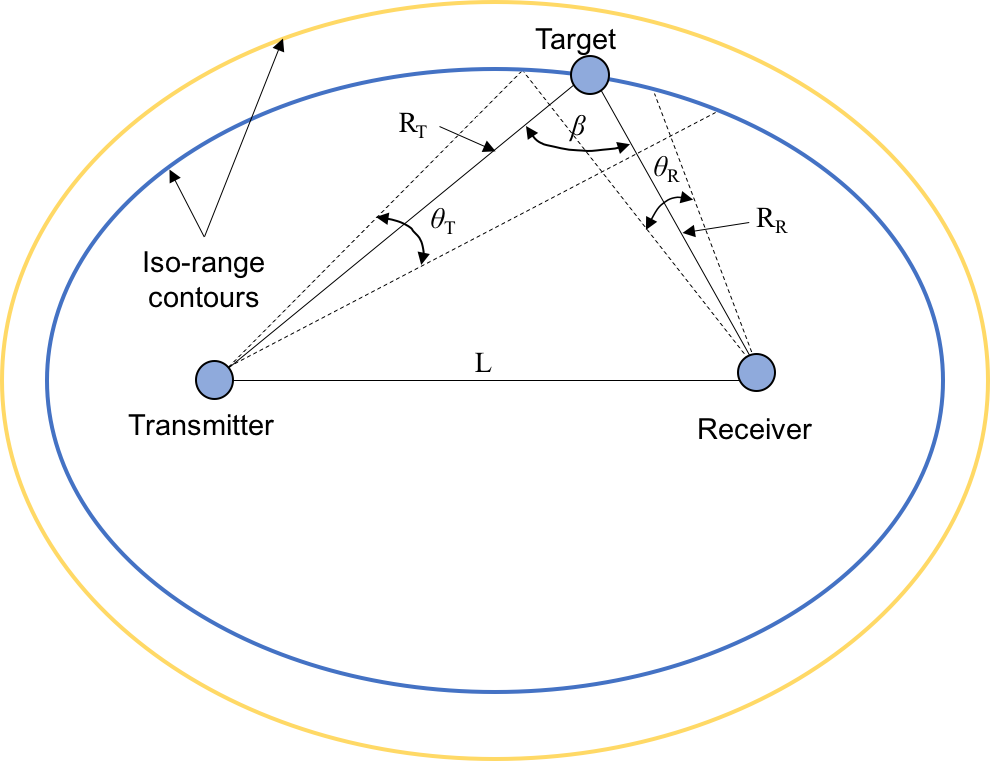
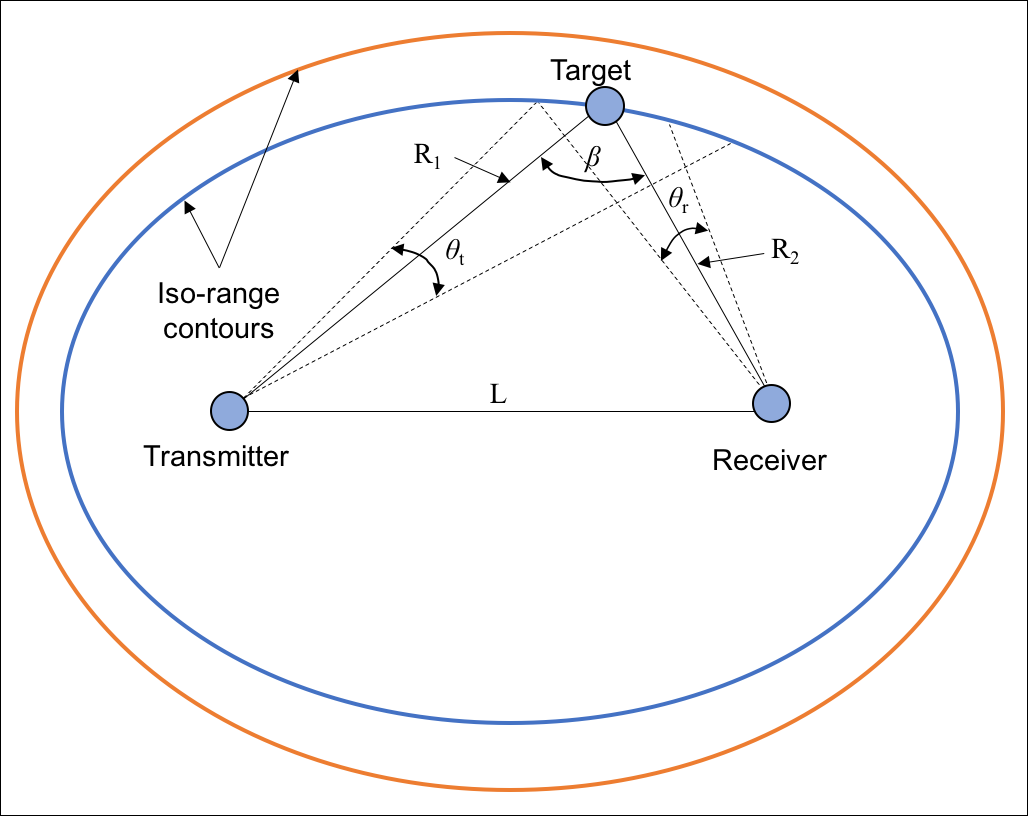
Adding images for earth models along with typo corrections

Changed region(s): [[0.0, 0.0, 1.0, 1.0], [0.697, 0.544, 0.8182, 0.5742], [0.5152, 0.272, 0.5455, 0.3022]]

diff --git a/src/radar_basics.tex b/src/radar_basics.tex
@@ -18,14 +18,14 @@ The RADAR range equation is derived by assuming spherically propagating waves an
 \end{figure}
 \renewcommand{\baselinestretch}{2} \small\normalsize
 
-With spherical waves, the power is spread out over a sphere of radius equal to the slant range, $R$, which gives a scaling factor of $\left( 4\pi R^2 \right)^{-1}$ for propagation. The total projected power is the transmitted power, $P_t$, multiplied by the antenna gain, $G_t$. The RADAR cross section (RCS), $\sigma$, defines the amount of power reflected. The effective area of the antenna is then $\frac{G_t\lambda^2}{4\pi}$.
+With spherical waves, the power is spread out over a sphere of radius equal to the slant range, $R$, which gives a scaling factor of $\left( 4\pi R^2 \right)^{-1}$ for propagation. The total projected power ($P_1$) is the transmitted power, $P_t$, multiplied by the antenna gain, $G_t$. The RADAR cross section (RCS), $\sigma$, defines the amount of power reflected, and the effective area of the antenna is $\frac{G_t\lambda^2}{4\pi}$.
 
-In the monostatic case, $G_t = G_r$ and the RADAR range equation is given in Equation \ref{intro_eq:1} \cite{skolnik_radar}.
+In the monostatic case, $G_t = G_r$ and the RADAR range equation is given in Equation \ref{intro_eq:1} \cite{skolnik_handbook}.
   \begin{equation}
   \label{intro_eq:1}
  P_r = \frac{P_tG_t^2\sigma\lambda^2}{\left(4\pi\right)^3R^4}
   \end{equation}
-In this equation, the antenna gain, $G_t$ is a function of the angle between the antenna boresight and the target. Randomness enters this version of the RADAR range equation through the target RCS, $\sigma$.
+In this equation, the antenna gain, $G_t$ is a function of the angle between the antenna boresight and the target. Randomness enters this version of the RADAR range equation through the target RCS.
 
 In the atmosphere, propagation is a linear operation. Therefore we can leverage superposition to compute the RADAR range equation for each path or scatterer and sum the results.
 
@@ -51,17 +51,16 @@ The bistatic RADAR range equation in terms of SNR is shown in Equation \ref{intr
 \end{equation}
 
 \subsection{Propagation Factors}
-The use of a propagation factor, $F_p$, allows us to include atmospheric effects in the RADAR range equation. These effects can include absorption from atmospheric gases and weather such as rain or snow as well as rollups for the effects of multipath reflections, diffraction from the surface, and clipping by the horizon. The propagation factor is typically implemented as a multiplier to the RADAR range equation and is generally complicated to compute. 
+The use of a propagation factor, $F_p$, allows us to include atmospheric effects in the RADAR range equation. These effects can include absorption from atmospheric gases and weather such as rain or snow as well as rollups for the effects of multipath reflections, diffraction from the surface, and clipping by the horizon. The propagation factor is typically implemented as a multiplier to the RADAR range equation and provides another mechanism to introduce randomness. Because it encompasses a wide variety of environment conditions, it is generally complicated to compute. 
 
-The bistatic RADAR range equation with a propagation factor included in given in Equation \ref{intro_eq:4a}.
+The bistatic RADAR range equation with a propagation factor included is given in Equation \ref{intro_eq:4a}.
   \begin{equation}
   \label{intro_eq:4a}
  P_r = \frac{P_tG_tG_r\sigma_B\lambda^2}{\left(4\pi\right)^3R_1^2R_2^2}F_p
   \end{equation}
-The propagation factor provides another mechanism to introduce randomness.
 
 \section{Bistatic Configurations}
-Because the transmitter and receiver are not colocated in a bistatic configuration, the geometry now becomes an ellipsoid as shown in Figure \ref{intro_fig:2}. Here, $R_1$ is the slant range from the transmitter to the target, $R_2$ is the slant range from the target to the receiver, $\theta_1$ is the one way beam width of the transmitter and $\theta_r$ is the one way beam width of the receiver. The bistatic angle, $\beta$ is the angle between the transmitter and receiver in the plane containing the transmitter, receiver, and target. 
+Because the transmitter and receiver are not colocated in a bistatic configuration, the geometry now becomes ellipsoidal as shown in Figure \ref{intro_fig:2}. Here, $R_1$ is the slant range from the transmitter to the target, $R_2$ is the slant range from the target to the receiver, $\theta_t$ is the one way beam width of the transmitter and $\theta_r$ is the one way beam width of the receiver. The bistatic angle, $\beta$, is the angle between the transmitter and receiver in the plane containing the transmitter, receiver, and target. 
 \begin{figure}[H]
   \begin{center}
 \includegraphics[width=4in]{../media/multistatic/Isorange_contours.png}
@@ -72,7 +71,7 @@ Because the transmitter and receiver are not colocated in a bistatic configurati
   \end{quote}
 \end{figure}
 \renewcommand{\baselinestretch}{2} \small\normalsize
-The isorange contours are defined as the contours where the total path length , $R_1 + R_2$ is constant. These form ellipses with the transmitter and receiver at the foci. For the monostatic case, the isorange contours are simply circles. In the bistatic case, the beam width is not symmetric about the isorange contours with results in skewing the impact of clutter.
+The isorange contours are defined as the contours where the total path length, $R_1 + R_2$ is constant . These form ellipses with the transmitter and receiver at the foci as shown in the blue and orange curves in Figure \ref{intro_fig:2}. For the monostatic case, the isorange contours are simply circles and the geometry is simplified as everything is symmetric. In the bistatic case, however, the beam width is not symmetric along the isorange contours, which results in skewing the impact of clutter.
 
 It is often convenient to look at things in terms of SNR. In a bistatic configuration, the loci of constant SNR are known as the ovals of Cassini \cite{willis_bistatic} and an example is shown in Figure \ref{intro_fig:3}.
 \begin{figure}[H]
@@ -85,25 +84,57 @@ It is often convenient to look at things in terms of SNR. In a bistatic configur
   \end{quote}
 \end{figure}
 \renewcommand{\baselinestretch}{2} \small\normalsize
+The ovals of Cassini are a simplification that assumes the target RCS and propagation factors are invariant with respect to angle and range. This is rarely the case, but the ovals of Cassini are useful to quickly represent system constraints.
+
+For large SNR, the ovals of Cassini collapse around the transmitter and receiver and define the transmitter centered and receiver centered regions. The cosite region is defined as when the ovals of Cassini surround both the transmitter and receiver \cite {willis_bistatic}.
+
 \section{Beam Width}
-The beam width of an antenna is defined as the angle between the half power points in the antenna pattern.
+The beam width of an antenna is defined as the angle between the half power points in the antenna pattern. We will use a sinc antenna pattern to demonstrate this concept.
 
 \subsection{One Way}
-The one way antenna beam width, $\theta$, is simply the beam width of the forward propagating beam.
+The one way antenna beam width, $\theta$, is simply the beam width of the forward propagating beam. The electric field amplitude in the far field of a sinc antenna pattern is given by Equation \ref{rb_eq:1} and shown in Figure \ref{rb_fig:4}.
+
+\begin{equation}
+\label{rb_eq:1}
+E(\theta) = \frac{\sin\left(\frac{\pi D}{\lambda}\sin(\theta) \right)}{\frac{\pi D}{\lambda}\sin(\theta)}
+\end{equation}
+
+\begin{figure}[H]
+  \begin{center}
+\includegraphics[width=4in]{../media/multistatic/sinc_antenna_pattern_one_way.png}
+  \end{center}
+  \renewcommand{\baselinestretch}{1} \small\normalsize
+  \begin{quote}
+    \caption[One Way Antenna Pattern]{One Way Antenna Pattern\label{rb_fig:4}}
+  \end{quote}
+\end{figure}
+\renewcommand{\baselinestretch}{2} \small\normalsize
 
 \subsection{Two Way}
-The two way antenna beam width, $\theta_2$, is the beam width of the beam propagating in both directions. For the monostatic case, we can compute this as the one way beam width of the square of the antenna pattern. In most cases, $\theta_2 \approx \frac{1}{\sqrt{2}}\theta$.
+The two way antenna beam width, $\theta_2$, is the beam width of the beam propagating in both directions. For the monostatic case, we can compute this as the one way beam width of the square of the antenna pattern. For the sinc pattern, the two way pattern is shown in Figure \ref{rb_fig:5}. In most cases, $\theta_2 \approx \frac{1}{\sqrt{2}}\theta$.
+
+\begin{figure}[H]
+  \begin{center}
+\includegraphics[width=4in]{../media/multistatic/sinc_antenna_pattern_two_way.png}
+  \end{center}
+  \renewcommand{\baselinestretch}{1} \small\normalsize
+  \begin{quote}
+    \caption[Two Way Antenna Pattern]{Two Way Antenna Pattern\label{rb_fig:5}}
+  \end{quote}
+\end{figure}
+\renewcommand{\baselinestretch}{2} \small\normalsize
+The two way beam width is really only valid for monostatic configurations that assume the forward and backward propagating beams lie directly on top of one another. In a bistatic configuration, the beams overlap differently and need to be explicitly evaluated.
 
 \section{Detection}
 The detection process can be cast as a hypothesis test where the two mutually exclusive hypotheses are that the target is either present or not present \cite{richards_radar}. There are three probabilities that need to be considered. First, the probability of detection, $P_d$, is the probability that a target is both detected and present. Second, the probability of false alarm, $P_{fa}$ is the probability that a target is detected but not actually present. Finally, the probability of miss, $P_m$ is the probability that a target is present but not detected. In most cases, a missed detection is worse than a false alarm.
 
 \subsection{Threshold Testing}
-The detection processes is generally a threshold test applied to the output of a matched filter generated for optimal detection with the threshold, $\hat{T}$ tuned to achieve a specified $P_{fa}$. The received signal consists of thermal noise, potential target returns, and potential interference signals such as clutter or jamming.
+The detection processes is generally a threshold test applied to the output of a matched filter with the threshold, $\hat{T}$ tuned to achieve a specified $P_{fa}$. Matched filters match the filter impulse response to the waveform to maximize the SNR and optimize detection \cite{richards_dsp}. 
 
-Expressions for $P_d$ are complicated but well studied for the cases of standard Gaussian noise and fluctuating targets following Swerling models. In general, $P_d$ is dependent on SNR, so processing is typically geared towards maximizing the SNR. As a general rule of thumb, an SNR of $13$ dB provides a $P_d$ of $\approx 0.94$ and a $P_{fa}$ of $\approx 10^{-6}$.
+The received signal consists of thermal noise, potential target returns, and potential interference signals such as clutter or jamming. Expressions for $P_d$ are complicated but well studied for the cases of standard Gaussian noise and fluctuating targets following Swerling models. As a general rule of thumb, an SNR of $13$ dB provides a $P_d$ of $\approx 0.94$ and a $P_{fa}$ of $\approx 10^{-6}$.
 
 \subsection{Processing Gains}
-To improve the overall SNR and increase the $P_d$, we can take advantage of processing gains by applying the detection strategy to groups of pulses. This is known as pulse integration and we can apply it coherently or noncoherently and can also look at M out of N strategies (binary integration).
+To improve the overall SNR and increase the $P_d$, we can take advantage of processing gains by applying the detection strategy to groups of pulses. This is known as pulse integration and we can apply it coherently or noncoherently. We can also look at binary integration strategies where a detection is asserted for $M$ observations out of $N$ chances.
 
 \subsubsection{Coherent and Noncoherent Integration}
 For coherent integration, we operate in the complex domain and add the magnitude and phase of each pulse. The number of pulses, $N$, that are combined is defined as the Coherent Processing Interval (CPI) and the overall processing gain goes as $N^2$.
@@ -113,3 +144,15 @@ For noncoherent integration, we only sum the magnitudes of each pulse. We now re
 Coherently integration $2$ pulses provides a $6$ dB processing gain while noncoherently integrating $2$ pulses only provides a $3$ dB processing gain.
 
 \subsubsection{Binary Integration}
+Binary integration relies on cumulative probability to improve $P_d$ and reduce $P_{fa}$. For the specific strategies of requiring $M$ positive hits out of $N$ observations to claim a detection, the improvement in probability is given in Equation \ref{rb_eq:2} where $P$ is the resulting $M$ of $N$ probability and $p$ is the single opportunity probability (either $P_d$ or $P_{fa}$ ). 
+
+\begin{equation}
+\label{rb_eq:2}
+P = \sum_{r=M}^N\binom{N}{k}p^k\left(1-p \right)^{N-k}
+\end{equation}
+
+The standard $N$ choose $k$ from Equation \ref{rb_eq:2} is given by:
+\begin{equation}
+\label{rb_eq:3}
+\binom{N}{k} = \frac{N!}{(N-k)!k!}
+\end{equation}

diff --git a/src/RF_environmental_impacts.tex b/src/RF_environmental_impacts.tex
@@ -6,18 +6,40 @@ Before developing a statistical model, we need to understand which environmental
 The earth can be modeled as flat to simplify calculations, as a sphere to capture horizon effects for long range propagation, or as an ellipsoid to provide additional geometric accuracy. In general, the standard model is spherical with the 4/3 earth radius approximation.
 
 \subsection{Flat Earth}
-The flat earth model is valid only for short ranges as there is no concept of the RADAR horizon. The geometry provides a simple planar surface such that the local tangent plane is equivalent at both the transmitter and target. This means that coordinate frame transformations are not necessary.
+The flat earth model is valid only for short ranges as there is no concept of the RADAR horizon. The geometry provides a simple planar surface such that the local tangent plane is equivalent at both the transmitter and target. This model is shown in Figure \ref{env_fig:1}, where $h$ is the altitude of the transmitter, $h_t$ is the altitude of the target, $R$ is the slant range, $\alpha$ is the depression angle, and $\chi$ is the grazing angle. Also shown in this figure is a single multipath bounce off the surface (the direct path between the transmitter and receiver is not shown). 
+
+\begin{figure}[H]
+  \begin{center}
+\includegraphics[width=4in]{../media/multistatic/flat_earth_geometry.png}
+  \end{center}
+  \renewcommand{\baselinestretch}{1} \small\normalsize
+  \begin{quote}
+    \caption[Flat Earth Geometry]{Flat Earth Geometry\label{env_fig:1}}
+  \end{quote}
+\end{figure}
+\renewcommand{\baselinestretch}{2} \small\normalsize
+Flat earth approximations are typically used for initial back of the envelope calculations but should not be used to assess critical performance characteristics. 
 
 \subsection{Spherical Earth}
-The spherical earth model assumes the earth is a sphere, with a constant radius $r_e = 6370$ km.
+The spherical earth model assumes the earth is a sphere, with a constant radius $r_e = 6370$ km and is shown in Figure \ref{env_fig:2}. In this figure, $r_e'$ represents the effective radius of the earth.
+
+\begin{figure}[H]
+  \begin{center}
+\includegraphics[width=4in]{../media/multistatic/spherical_earth_geometry.png}
+  \end{center}
+  \renewcommand{\baselinestretch}{1} \small\normalsize
+  \begin{quote}
+    \caption[Spherical Earth Geometry]{Spherical Earth Geometry\label{env_fig:2}}
+  \end{quote}
+\end{figure}
+\renewcommand{\baselinestretch}{2} \small\normalsize
+The curvature of the earth changes the reference planes between the transmitter and target, so that the local tangent planes are not equivalent.
 
 \subsection{WGS-84 Earth}
-The World Geodetic System (WGS) is an earth fixed standard coordinate system developed in 1984 and the current standard is identified as WGS-84 \cite{dod_wgs84}.
-
-The WGS-84 model is not generally used for RADAR calculations as it complicates analysis beyond the spherical earth model and the difference between the models is negligible compared to the uncertainty in the refractive index profile. In cases where we desire the additional geometry accuracy, such as RADAR horizon calculations at a particular location on the earth, we can follow the spherical earth model but use the local radius of curvature from the WGS-84 earth model as $r_e$.
+The World Geodetic System (WGS) is an earth fixed standard coordinate system developed in 1984 and the current standard is identified as WGS-84 \cite{dod_wgs84}. This model is not generally used for RADAR calculations as it complicates analysis beyond the spherical earth model and the difference between the two models is negligible compared to the uncertainty in the refractive index profile. In cases where we desire the additional geometry accuracy, such as RADAR horizon calculations at a particular location on the earth, we can follow the spherical earth model but use the local radius of curvature from the WGS-84 earth model as $r_e$.
 
 \subsection{4/3 Earth Model}
-Due to the refractive index of the atmosphere, the propagation path of an electromagnetic wave will curve. Under the assumption of standard atmospheric conditions, the propagation path can be approximated as a straight line if an effective radius of the earth is used $r_e' = 4/3 r_e$ \cite{blake_radar}, \cite{nathanson_radar}. This is referred to as the 4/3 earth model and is used in most analytical calculations.
+Due to the refractive index of the atmosphere, the propagation path of an electromagnetic wave will curve. Under the assumption of standard atmospheric conditions, the propagation path can be approximated as a straight line if an effective radius of the earth is used, $r_e' = 4/3 r_e$ \cite{blake_radar}, \cite{nathanson_radar}. This is referred to as the 4/3 earth model and is used in most analytical calculations.
 
 As stated above, we can increase geometric accuracy for locality by using the local radius of curvature from the WGS-84 model for $r_e$.
 
@@ -25,13 +47,13 @@ As stated above, we can increase geometric accuracy for locality by using the lo
 The earth model used defines the propagation geometry. The geometric aspects of most importance are the grazing angle, depression angle, and RADAR horizon. The grazing and depression angles are important in computing the reflection coefficients and beam intersection area for both clutter and multipath and the RADAR horizon bounds the propagation range.
 
 \subsection{Grazing and Depression Angles}
-The depression angle, $\alpha$ is the angle from the local horizontal plane and is given by Equation \ref{env_eq:1} \cite{nathanson_radar}.
+The grazing and depression angles are both defined for rays intersecting the earth as shown in Figure \ref{env_fig:2}. The depression angle, $\alpha$ is the angle from the local horizontal plane at the transmitter and is given by Equation \ref{env_eq:1} \cite{nathanson_radar}.
 \begin{equation}
   \label{env_eq:1}
   \alpha = \sin^{-1}\left(\frac{2r_e'h + h^2 + R^2}{2R\left[r_e' + h \right]} \right)
   \end{equation}
   
-The grazing angle, $\chi$, is the angle from the local horizontal plane to the target and is given by Equation \ref{env_eq:2} \cite{nathanson_radar}.
+The grazing angle, $\chi$, is the angle from the local horizontal plane at the target and is given by Equation \ref{env_eq:2} \cite{nathanson_radar}.
   \begin{equation}
   \label{env_eq:2}
   \chi = \sin^{-1}\left(\frac{h}{R}\left[1 + \frac{h}{2r_e'} \right] - \frac{R}{2r_e'} \right)

diff --git a/src/introduction.tex b/src/introduction.tex
@@ -1,13 +1,13 @@
 \chapter{Introduction}
-Analysis of RADAR systems in maritime environments is complicated by the fact that the ocean does not generally provide a smooth or uniform surface to work with. Altitude variations change the aspect angle for multipath bounces, cause wave blockage, and add clutter and spikes to the echo return \cite{skolnik_handbook}, \cite{blake_radar}, \cite{nathanson_radar}. These are random, not deterministic effects which in turn induce signal fluctuations that have a significant impact on the probability of detecting a target. Understanding the impact of the sea surface on propagation is critical to evaluating the performance of a RADAR system in a maritime environment.
+Analysis of RADAR systems in maritime environments is complicated by the fact that the ocean does not generally provide a smooth or uniform surface to work with. Altitude variations change the aspect angle for multipath bounces, cause wave blockage, and add clutter and spikes to the echo return \cite{skolnik_handbook}, \cite{blake_radar}, \cite{nathanson_radar}. These are random effects which induce signal fluctuations that have a significant impact on the probability of detecting a target. Understanding the impact of the sea surface on propagation is critical to evaluating the performance of a RADAR system in a maritime environment.
 
-When we look at cases where the transmitter and receiver are not colocated, we have a bistatic configuration and analyzing performance becomes even more difficult \cite{willis_bistatic}. We cannot leverate reciprocity as paths are no longer constant, and the effects of multipath and clutter are often skewed. With multiple receivers or transmitters, the configuration is termed multistatic as there are multiple bistatic elements. Of particular concern here is the case with a single transmitter and multiple receivers.
+When we look at cases where the transmitter and receiver are not colocated, we have a bistatic configuration and analyzing performance becomes even more difficult \cite{willis_bistatic}. We cannot leverate reciprocity as paths are no longer constant, and the effects of multipath and clutter are often skewed due to geometric differences between the paths.  In addition, the receiver observes the target from a different aspect angle than it was illuminated with, resulting in a different radiation pattern. With multiple receivers or transmitters, the configuration is termed multistatic as there are multiple bistatic elements.
 
 \section{Objective}
-The objective of this work is to evaluate the performance of multistatic RF sensor networks and demonstrate that Random Matrix Theory (RMT) allows prediction of the signal statistics. This will be accomplished in several phases. First, the ocean surface will be modeled in 2-dimensions to ensure that the appropriate ocean wave statistics are captures with the correct correlations in both the down range and cross range directions. Second, a Monte Carlo study will be performed to generate RADAR signal statistics. This study will be executed by generating a series of sea surfaces and then numerically propagating a RADAR signal through a Parabolic Wave Equation solver. The study will cover multiple sea states and geometric configurations. Finally, RMT will be used to generate a statistical model that encompasses the results.
+The objective of this work is to evaluate the performance of multistatic RF sensor networks and demonstrate that Random Matrix Theory (RMT) allows prediction of the signal statistics. This will be accomplished in three phases. First, the ocean surface will be modeled in 2-dimensions to ensure that the appropriate ocean wave statistics are captured in both the down range and cross range directions. Second, a Monte Carlo study will be performed to generate signal statistics. This study will be executed by generating a series of sea surfaces and then numerically propagating a signal through a Parabolic Wave Equation solver. The study will cover multiple sea states and geometric configurations. Finally, RMT will be used to generate a statistical model that encompasses the results.
 
 \section{Multistatic RF Sensor Network Concept}
-An example multistatic RF sensor network in a maritime environment is shown in Figure \ref{ms_fig:1}. In this concept, a single transmitter illuminates a target and the echo signal is captured by a pair of receivers. The received signal will fluctuate due to multipath reflections from the surface, path variations, and relative motion of the target. In addition, each receiver observes the target from a different aspect angle than it was illuminated with, resulting in different radiation patterns.
+An example multistatic RF sensor network in a maritime environment is shown in Figure \ref{ms_fig:1}. In this concept, a single transmitter illuminates a target and the echo signal is captured by a pair of receivers. The received signal will fluctuate due to multipath reflections from the surface, and relative motion of the target.
 
 \begin{figure}[H]
   \begin{center}

diff --git a/mfiles/AntennaPatterns/generateAntennaPatternPlots.m b/mfiles/AntennaPatterns/generateAntennaPatternPlots.m
@@ -1,0 +1,68 @@
+function generateAntennaPatternPlots(varargin)
+%generateAntennaPatternPlots(varargin)
+saveFigs = 0;
+
+if(nargin == 1)
+    saveFigs = varargin{1};
+end
+
+f = 35e9;
+lambda = 3e8/f;
+
+
+D = 10.19*lambda;
+r = 10000;
+l = lambda;
+theta = linspace(-pi/4,pi/4,1000);
+
+E = sin(pi*D/lambda.*sin(theta))./(pi*D/lambda*sin(theta));
+Edb = 20*log10(abs(E));
+
+ind1 = find(Edb >= -3,1);
+ind2 = find(Edb(ind1+1:end) <= -3, 1) + ind1;
+
+bw = abs(theta(ind2) - theta(ind1))*180/pi;
+
+h(1) = figure;
+plot(theta*180/pi,Edb,'LineWidth',2);
+xlabel('\theta (deg)')
+ylabel('|E(\theta)| (dB)')
+grid on
+text(theta(ind1)*180/pi - 4,Edb(ind1),'\rightarrow','FontSize',12,'FontWeight','bold')
+text(theta(ind2)*180/pi + 1,Edb(ind2),'\leftarrow','FontSize',12,'FontWeight','bold')
+tstring = sprintf('One Way Antenna Pattern, Beam Width  = %0.2f deg',bw);
+title(tstring)
+
+set(gca,'LineWidth',2)
+set(gca,'FontSize',12)
+set(gca,'FontWeight','bold')
+xlim([-45 45])
+%%
+E2 = E.*E;
+E2db = 20*log10(abs(E2));
+
+ind3 = find(E2db >= -3,1);
+ind4 = find(E2db(ind3+1:end) <= -3, 1) + ind3;
+
+bw2 = abs(theta(ind4) - theta(ind3))*180/pi;
+
+h(2) = figure;
+plot(theta*180/pi,E2db,'LineWidth',2);
+xlabel('\theta (deg)')
+ylabel('|E(\theta)|^2 (dB)')
+grid on
+text(theta(ind3)*180/pi - 4,E2db(ind3),'\rightarrow','FontSize',12,'FontWeight','bold')
+text(theta(ind4)*180/pi + 1,E2db(ind4),'\leftarrow','FontSize',12,'FontWeight','bold')
+tstring = sprintf('Two Way Antenna Pattern, Beam Width = %0.2f deg',bw2);
+title(tstring)
+
+set(gca,'LineWidth',2)
+set(gca,'FontSize',12)
+set(gca,'FontWeight','bold')
+xlim([-45 45])
+%%
+
+if(saveFigs == 1)
+    saveas(h(1),'sinc_antenna_pattern_one_way.png','png')
+    saveas(h(2),'sinc_antenna_pattern_two_way.png','png')
+end
